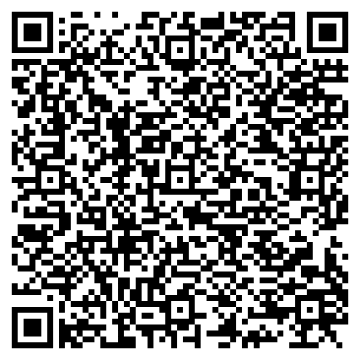
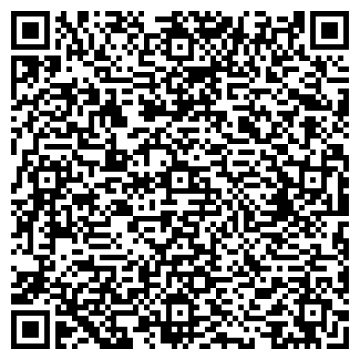
update

diff --git a/index.html b/index.html
@@ -30,7 +30,7 @@
   </tr>
   <tr>
     <td width="160" height="77" class="zt"><span class="zt2">节点订阅链接:</span></td>
-    <td width="962">vless://2e1b58d7-f992-410f-9e1a-67c547ba2016@hk.twnvip.net:3000?encryption=none&amp;flow=xtls-rprx-vision&amp;fp=chrome&amp;pbk=OxNN77iLDJeTlJ-hPOnJGoVQ_3sMzDuPVXC5NPdFF2M&amp;security=reality&amp;sid=4925&amp;sni=www.apple.com&amp;spx=%2F0f9382b57b496e7&amp;type=tcp#FreeV2rayNode-Google_Cloud</td>
+    <td width="962">vless://13dd79fa-e225-4b61-b6c3-37ad1c90947c@hk.taiwanvip.de5.net:3000?encryption=none&amp;flow=xtls-rprx-vision&amp;fp=chrome&amp;pbk=jv8gk2wRBZySfFvK2Z0VpYzyto-gTWdx6abi3ESUAUE&amp;security=reality&amp;sid=b2c6e54b&amp;sni=www.bing.com&amp;spx=%2F2bd33dd29294346&amp;type=tcp#FreeV2rayNode-Google_Cloud</td>
   </tr>
   <tr>
     <td height="177" class="zt5">节点订阅二维码:</td>
